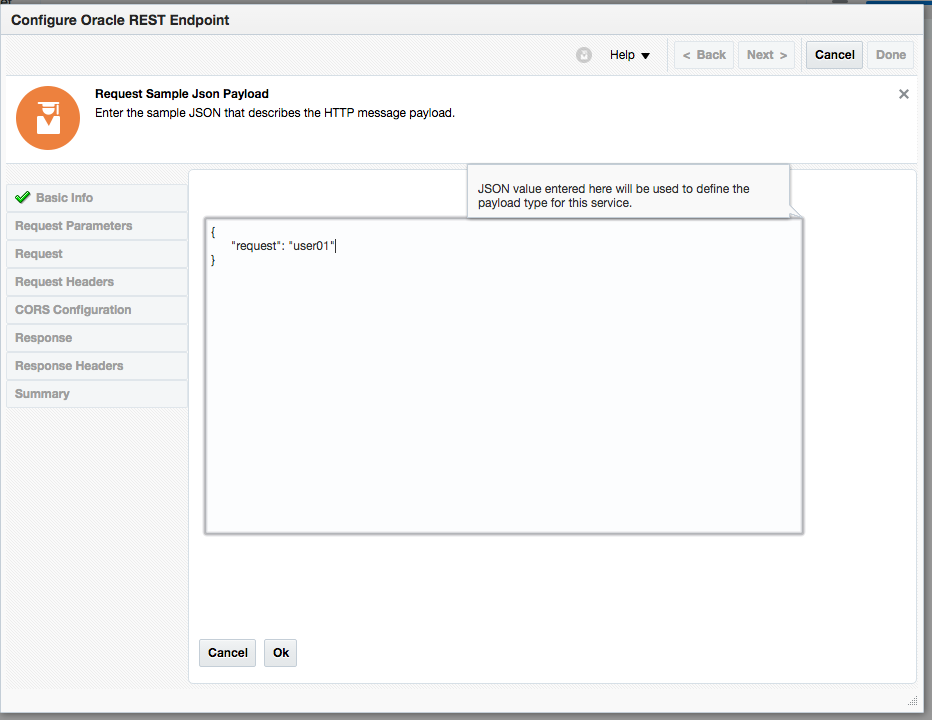
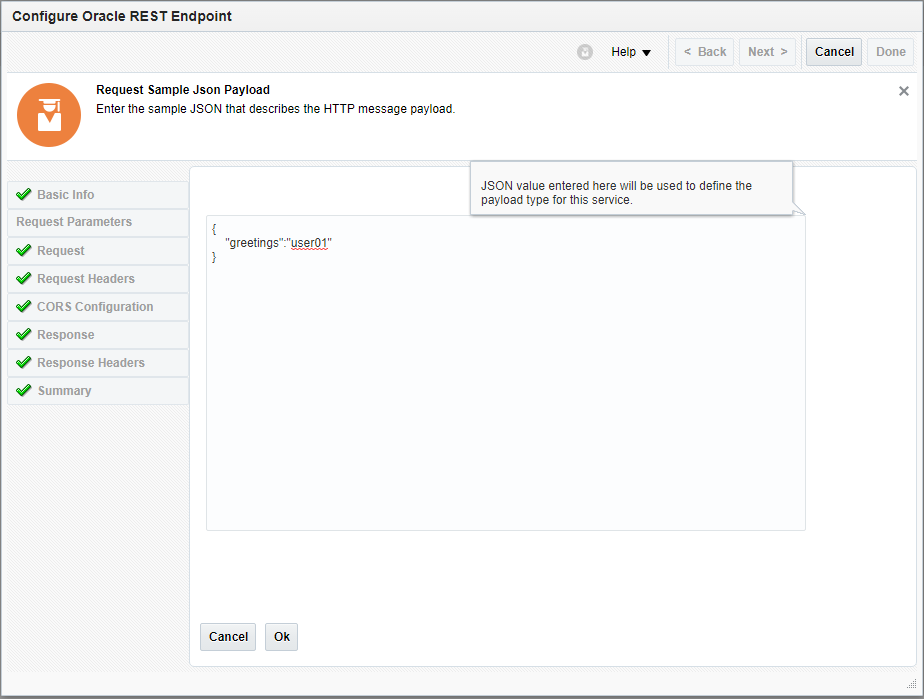
Updated Lab 100 with some changes

diff --git a/workshops/ttc-apipcs-ics-workshop/ics100.md b/workshops/ttc-apipcs-ics-workshop/ics100.md
@@ -1,6 +1,6 @@
 <center>![](https://cloudaccelerate.github.io/TTC-CommonContent/images/ttc-logo.png)</center>
 
-Update: March 30, 2017
+Update: August 4th, 2017
 
 # Lab 100 - Integration Cloud Service
 
@@ -18,7 +18,7 @@ Update: March 30, 2017
 
 This is the first of several labs that are part of the **APIPCS/ICS Integration Workshop** workshop. 
 
-In this lab, we will create a generic API, in Integration Cloud Service (ICS) to be consumed by the API Platform Cloud Service (APIPCS).  You will acquire a good overview of the Oracle Integration Cloud Service (ICS), the next generation integration platform. You will explore various consoles and tools available to interact with your integration. The exercise will get your familiar with all the tooling available to work with this cloud service. 
+In this lab, we will create a generic API, in Integration Cloud Service (ICS) to be consumed by the API Platform Cloud Service (APIPCS).  You will acquire a good overview of the Oracle Integration Cloud Service (ICS), the next generation integration platform. You will explore various consoles and tools available to interact with your integration. This lab will get you familiar with all the tooling available to work with this cloud service. 
 
 We’ll look at the following:
 1.	Creating an ICS REST Connection
@@ -178,8 +178,12 @@ As you can see that there is not much you can configure, apart from the owner's 
     - Name of endpoint `helloWorld`
     - Endpoint relative rource URI `/helloworld_userXX` (Where userXX is your allocated username)
     - Change the action `POST`
-    - **Select** options to configure `request payload`, and configure `endpoint response`
-    - Also make sure `Configure Request Headers` to select `Custom`
+    - **Select** Checkbox to configure `Configure a request payload for this endpoint`
+    - **Select** Checkbox to configure `Configure this endpoint to receive the response`
+    - **Select** `Custom` Checkbox for `Configure Request Headers`
+    - **Select** `Custom` Checkbox for `Configure Response Headers`
+    - **Select** Checkbox for `Configure CORS (Cross Origin Resource Sharing)`
+
 
     ![](images/100/image017.png)
 
@@ -197,7 +201,7 @@ As you can see that there is not much you can configure, apart from the owner's 
 
     ```javascript
     {
-        "request":"user01"
+        "greetings":"user01"
     }
     ```
 
@@ -212,7 +216,13 @@ As you can see that there is not much you can configure, apart from the owner's 
 
     ![](images/100/image020.png)
 
-- **Click** on `Next >`
+- **Click** on `Next >` to move to the `Configure CORS for the inbound service` step
+
+- On `Configure CORS for the inbound service` page, Enable CORS for all domains, by entering * in `Allowed Origins`
+
+    ![](images/100/image039.png)
+
+- **Click** on `Next >` to move to the `Configure the Response Payload` step
 
 - On the `Configure the Response Payload` page, we are going to define the response messgae
 - On the `Configure the Response Payload` wizard page
@@ -227,7 +237,7 @@ As you can see that there is not much you can configure, apart from the owner's 
 
     ```javascript
     {
-        "response":"Hello user01",
+        "greetings":"Hello user01",
         "customHeaderDebug":"Value passed in from APICS"
     }
     ```
@@ -297,7 +307,7 @@ The next step is to configure the mapping, ie. matching the input to the output 
 
 ---
 
-Now we have to configure the tracking fields for the orchestration so that we can see what happened in the `Monitoring` tools.
+Configure tracking fields for the orchestration so that we can use business identifiers for tracking messages with ICS `Monitoring` tools.
 
 - Back in the orchestration editor, **Click** on the `hamburger` menu on the right hand-side, and select `Tracking`
 
@@ -312,7 +322,7 @@ Now we have to configure the tracking fields for the orchestration so that we ca
 - **Click** on `Save` to close the `Orchestration Editor`
 
 
-### **1.3.6** DEploying and Publishing Integration
+### **1.3.6** Deploying and Publishing Integration
 
 ---
 
@@ -322,7 +332,7 @@ Back on the `Integrations` page, we are now going to activate and publish our `H
 
     ![](images/100/image036.png)
 
-- Make sure to select `Enable Tracking` and click on `Activate and Publish`
+- Make sure to select `Enable Tracing` and click on `Activate and Publish`
 
     ![](images/100/image037.png)
 
